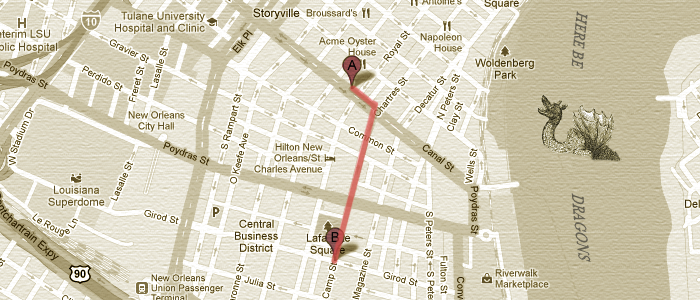
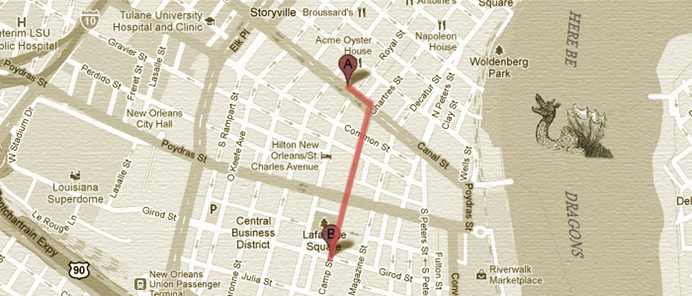
Fix map border.

diff --git a/public/index.html b/public/index.html
@@ -134,12 +134,10 @@
         destination.
       </p>
 
-      <div id="map-container">
-        <div id="map">
-          <a href="http://g.co/maps/a6q4n">
-            <img src="/img/map.png" alt="Camp &amp; Girod">
-          </a>
-        </div>
+      <div id="map">
+        <a href="http://g.co/maps/a6q4n">
+          <img src="/img/map.png" alt="Camp &amp; Girod">
+        </a>
       </div>
 
       <h2>What shall I bring?</h2>

diff --git a/public/css/screen.css b/public/css/screen.css
@@ -146,14 +146,11 @@ sup {
     vertical-align : super;
 }
 
-#map-container {
+#map {
     background-color : white;
     border           : 1px dotted #666;
+    height           : 296px;
     padding          : 3px;
-}
-
-#map {
-    height: 300px;
 }
 
 #tldr {
